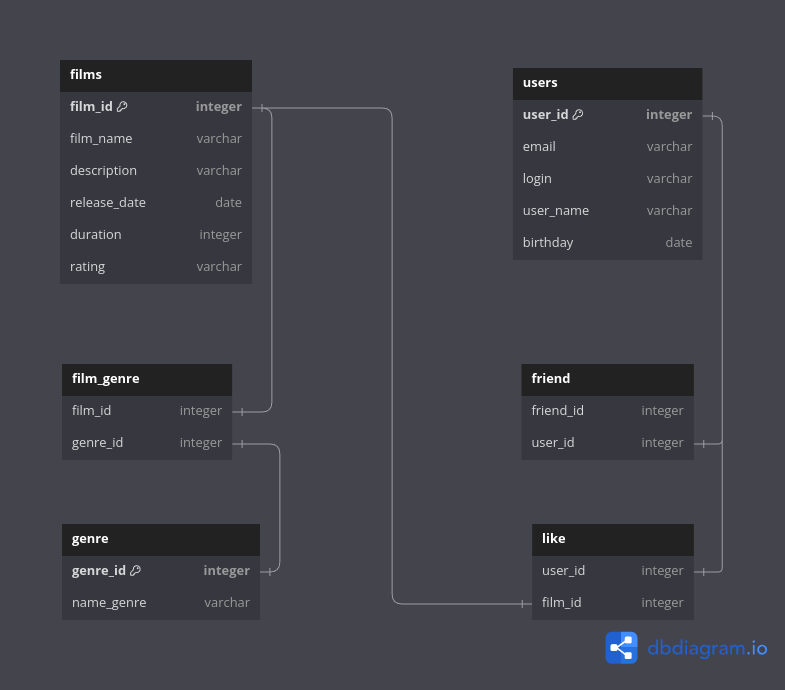
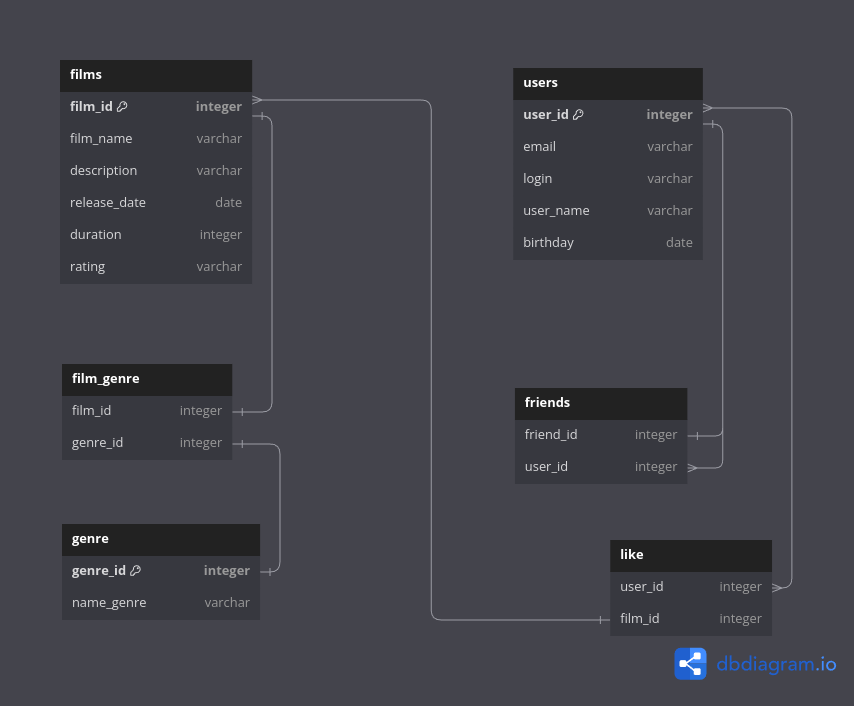
scheme fix

diff --git a/README.md b/README.md
@@ -1,2 +1,49 @@
 # java-filmorate
-Template repository for Filmorate project.
+Template repository for Filmorate project.  
+Scheme DB
+![scheme DB](src/main/resources/scheme.png)  
+Описание  взаимо связи с таблицами.  
+Table films {  
+film_id integer [primary key]  
+film_name varchar  
+description varchar  
+release_date date  
+duration integer  
+rating varchar  
+}
+
+Table genre {  
+genre_id integer [primary key]  
+name_genre varchar  
+}  
+
+Table film_genre {  
+film_id integer  
+genre_id integer  
+}  
+
+Table users {  
+user_id integer [primary key]  
+email varchar  
+login varchar  
+user_name varchar  
+birthday date  
+}  
+
+Table friend {
+friend_id integer  
+user_id integer
+}  
+
+Table like {  
+user_id integer  
+film_id integer  
+}  
+
+Ref: films.film_id - film_genre.film_id  
+Ref: film_genre.genre_id - genre.genre_id  
+Ref: films.film_id > like.film_id  
+Ref: users.user_id <> like.user_id  
+Ref: users.user_id < friend.user_id  
+Ref: friend.friend_id - users.user_id  
+
